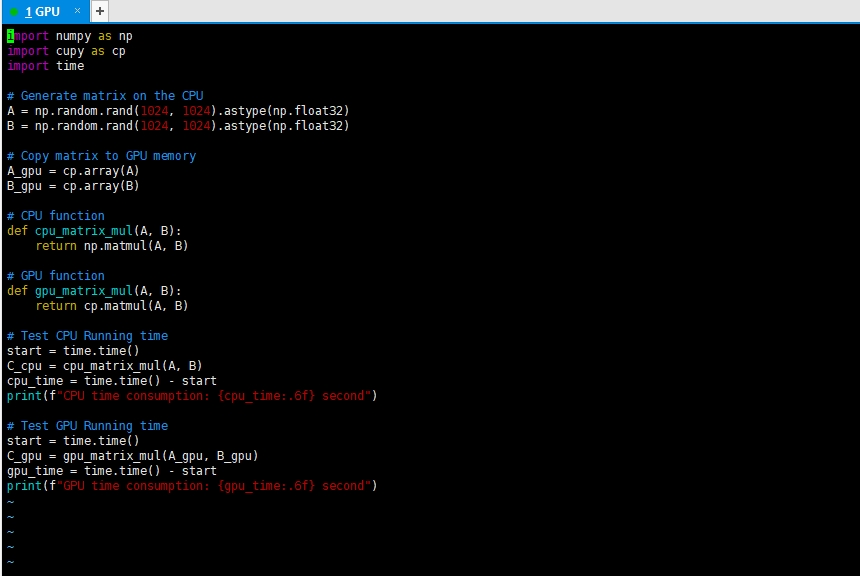
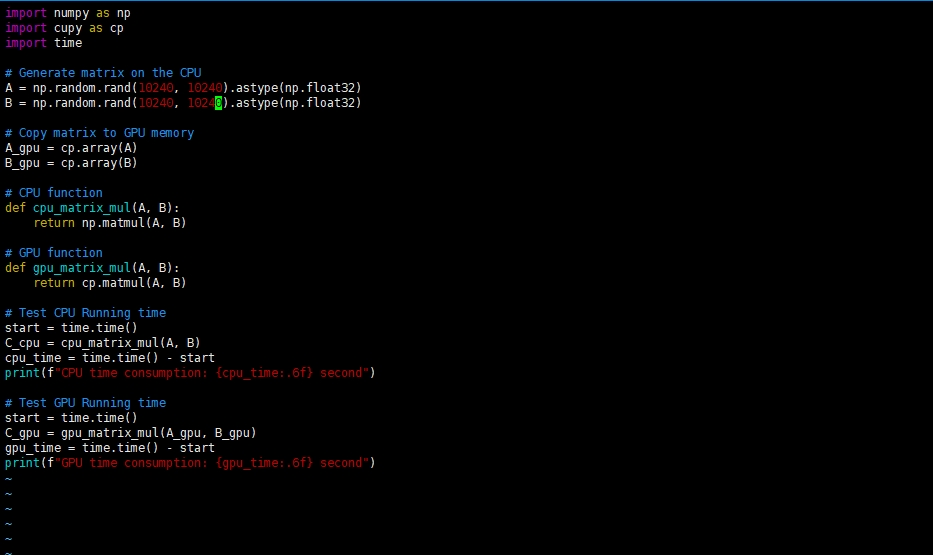
xx

Changed region(s): [[0.0, 0.0, 1.0, 1.0]]

diff --git a/site/GPUDocs/index.html b/site/GPUDocs/index.html
@@ -417,7 +417,7 @@ conda install pandas
 <h4 id="running-example">Running example</h4>
 <p>Here I will show you an example to run python program.</p>
 <ol>
-<li>Suppose we want to execute the following Python code:</li>
+<li>Suppose we want to execute the following Python code, which is the multiplication of two matrix of 10240 x 10240 dimensions:</li>
 </ol>
 <pre><code class="language-bash">import numpy as np
 import cupy as cp
@@ -459,9 +459,9 @@ print(f&quot;GPU time consumption: {gpu_time:.6f} second&quot;)
 <p>Supposed I have already uploaded the python file to my home path. Now we can check it.</p>
 </li>
 </ol>
-<p><img alt="" src="img/XShell5.png" /></p>
+<p><img alt="" src="../img/Xshell5.png" /></p>
 <p>We can see the test.py under my home dir. Now use <code>vi test.py</code> to view the file content.</p>
-<p><img alt="" src="img/XShell6.png" /></p>
+<p><img alt="" src="../img/Xshell6.png" /></p>
 <ol>
 <li>If there is no problem, we can prepare to run the code. Excute the following command to create a virtual enviornment for python.</li>
 </ol>
@@ -469,10 +469,10 @@ print(f&quot;GPU time consumption: {gpu_time:.6f} second&quot;)
 </code></pre>
 <p>Learn to use conda to separate the develop enviroments for each of your project is very important.</p>
 <p>After that, excute command <code>tmux</code> and we will get a new window like this:</p>
-<p><img alt="" src="img/XShell7.png" /></p>
+<p><img alt="" src="../img/Xshell7.png" /></p>
 <p>Tumx can make the program always run in the background even if you exit the ssh. </p>
 <p>Now we need to activate the virtual python environment created before, like this:</p>
-<p><img alt="" src="img/XShell8.png" /></p>
+<p><img alt="" src="../img/Xshell8.png" /></p>
 <p>We can find our python environment has changed from base to <code>gputest</code>.</p>
 <ol>
 <li>install the packages required.</li>
@@ -483,7 +483,7 @@ conda install -c conda-forge cupy
 <ol>
 <li>Then we run the GPU python code, we can find that the GPU is much faster than the CPU in the matrix multiplication operation with dimension 10240 x 10240.</li>
 </ol>
-<p><img alt="" src="img/XShell9.png" /></p>
+<p><img alt="" src="../img/Xshell9.png" /></p>
 <p>Now you should know how to run your program in our cluster.</p>
 <h2 id="quick-reference">Quick Reference</h2>
 <h3 id="contact">Contact</h3>

diff --git a/site/index.html b/site/index.html
@@ -249,5 +249,5 @@
 
 <!--
 MkDocs version : 1.5.3
-Build Date UTC : 2024-06-14 10:24:36.113121+00:00
+Build Date UTC : 2024-06-14 10:29:20.783759+00:00
 -->
